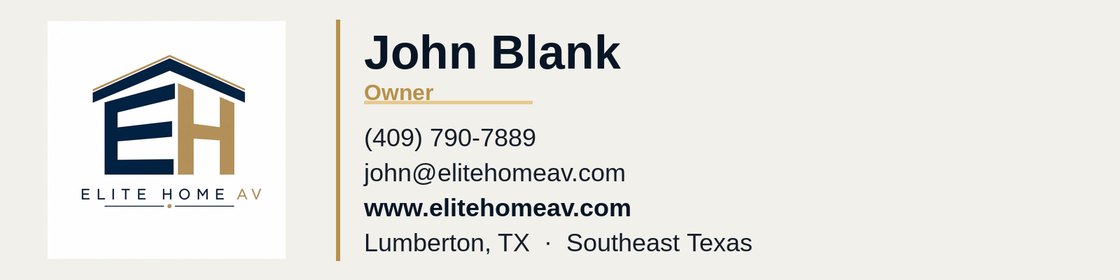
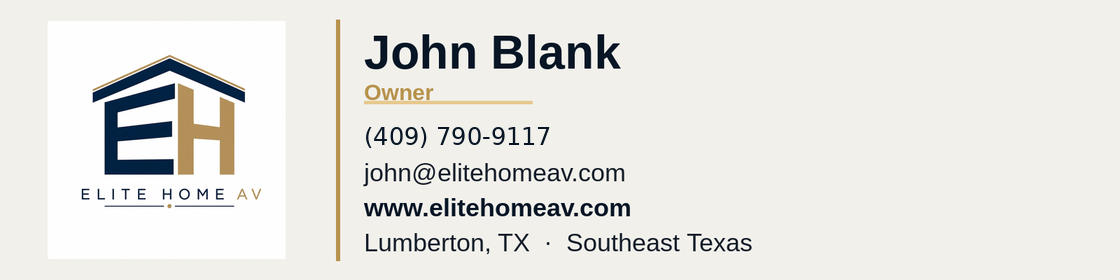
Update Elite Home AV business phone to 409 790-9117

Changed region(s): [[0.3125, 0.4571, 0.5, 0.5429]]

diff --git a/app/contact/page.tsx b/app/contact/page.tsx
@@ -5,9 +5,9 @@ import { PageHero } from "@/components/page-hero"
 import { CONTACT } from "@/lib/site"
 
 export const metadata: Metadata = pageMetadata({
-  title: "Contact Elite Home AV | (409) 790-7889",
+  title: "Contact Elite Home AV | (409) 790-9117",
   description:
-    "Call or contact Elite Home AV LLC in Lumberton, TX. Serving Beaumont, Port Arthur, Galveston & all of SE Texas. (409) 790-7889 | john@elitehomeav.com",
+    "Call or contact Elite Home AV LLC in Lumberton, TX. Serving Beaumont, Port Arthur, Galveston & all of SE Texas. (409) 790-9117 | john@elitehomeav.com",
   path: "/contact",
 })
 

diff --git a/app/layout.tsx b/app/layout.tsx
@@ -22,7 +22,7 @@ const localBusiness = {
   name: 'Elite Home AV LLC',
   url: SITE_URL,
   sameAs: [FACEBOOK_URL],
-  telephone: '+1-409-790-7889',
+  telephone: '+14097909117',
   email: 'john@elitehomeav.com',
   image: `${SITE_URL}${OG_IMAGE.url}`,
   address: {
@@ -39,7 +39,7 @@ const localBusiness = {
   ],
   contactPoint: {
     '@type': 'ContactPoint',
-    telephone: '+1-409-790-7889',
+    telephone: '+14097909117',
     contactType: 'sales and service',
     areaServed: 'Southeast Texas',
   },

diff --git a/app/card/page.tsx b/app/card/page.tsx
@@ -7,7 +7,7 @@ import { cardQrSvg, getLiveCardUrl } from '@/lib/qr'
 export const metadata: Metadata = {
   title: 'John Blank | Elite Home AV',
   description:
-    'Digital business card for John Blank, Owner of Elite Home AV LLC in Lumberton, TX. Call or text (409) 790-7889.',
+    'Digital business card for John Blank, Owner of Elite Home AV LLC in Lumberton, TX. Call or text (409) 790-9117.',
   alternates: { canonical: CARD.cardUrl },
   openGraph: {
     title: 'John Blank | Elite Home AV',

diff --git a/lib/card.ts b/lib/card.ts
@@ -8,9 +8,9 @@ export const CARD = {
   city: 'Lumberton',
   region: 'TX',
   country: 'United States',
-  phoneDisplay: '(409) 790-7889',
-  phoneTel: '4097907889',
-  phoneE164: '+14097907889',
+  phoneDisplay: '(409) 790-9117',
+  phoneTel: '+14097909117',
+  phoneE164: '+14097909117',
   email: 'john@elitehomeav.com',
   website: 'https://www.elitehomeav.com',
   websiteDisplay: 'www.elitehomeav.com',

diff --git a/lib/site.ts b/lib/site.ts
@@ -8,8 +8,8 @@ export const BRAND = {
 } as const
 
 export const CONTACT = {
-  phone: "(409) 790-7889",
-  phoneHref: "tel:4097907889",
+  phone: "(409) 790-9117",
+  phoneHref: "tel:+14097909117",
   email: "john@elitehomeav.com",
   emailHref: "mailto:john@elitehomeav.com",
   location: "Lumberton, TX 77657",

diff --git a/lib/schema.ts b/lib/schema.ts
@@ -9,7 +9,7 @@ export const AREA_SERVED = [
 const PROVIDER = {
   "@type": "LocalBusiness",
   name: "Elite Home AV LLC",
-  telephone: "+1-409-790-7889",
+  telephone: "+14097909117",
   url: SITE_URL,
   address: {
     "@type": "PostalAddress",
